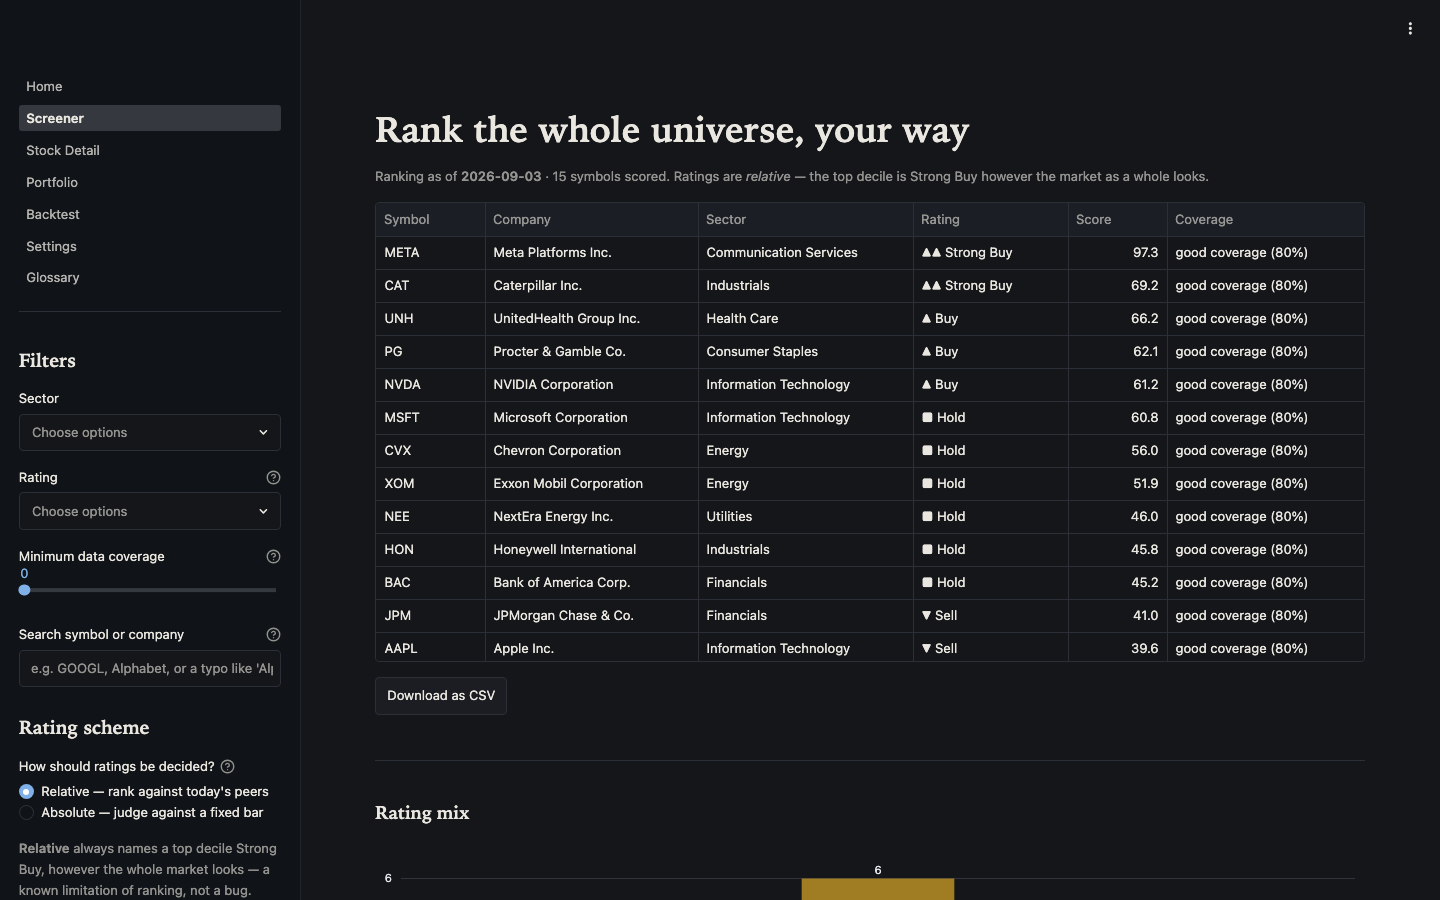
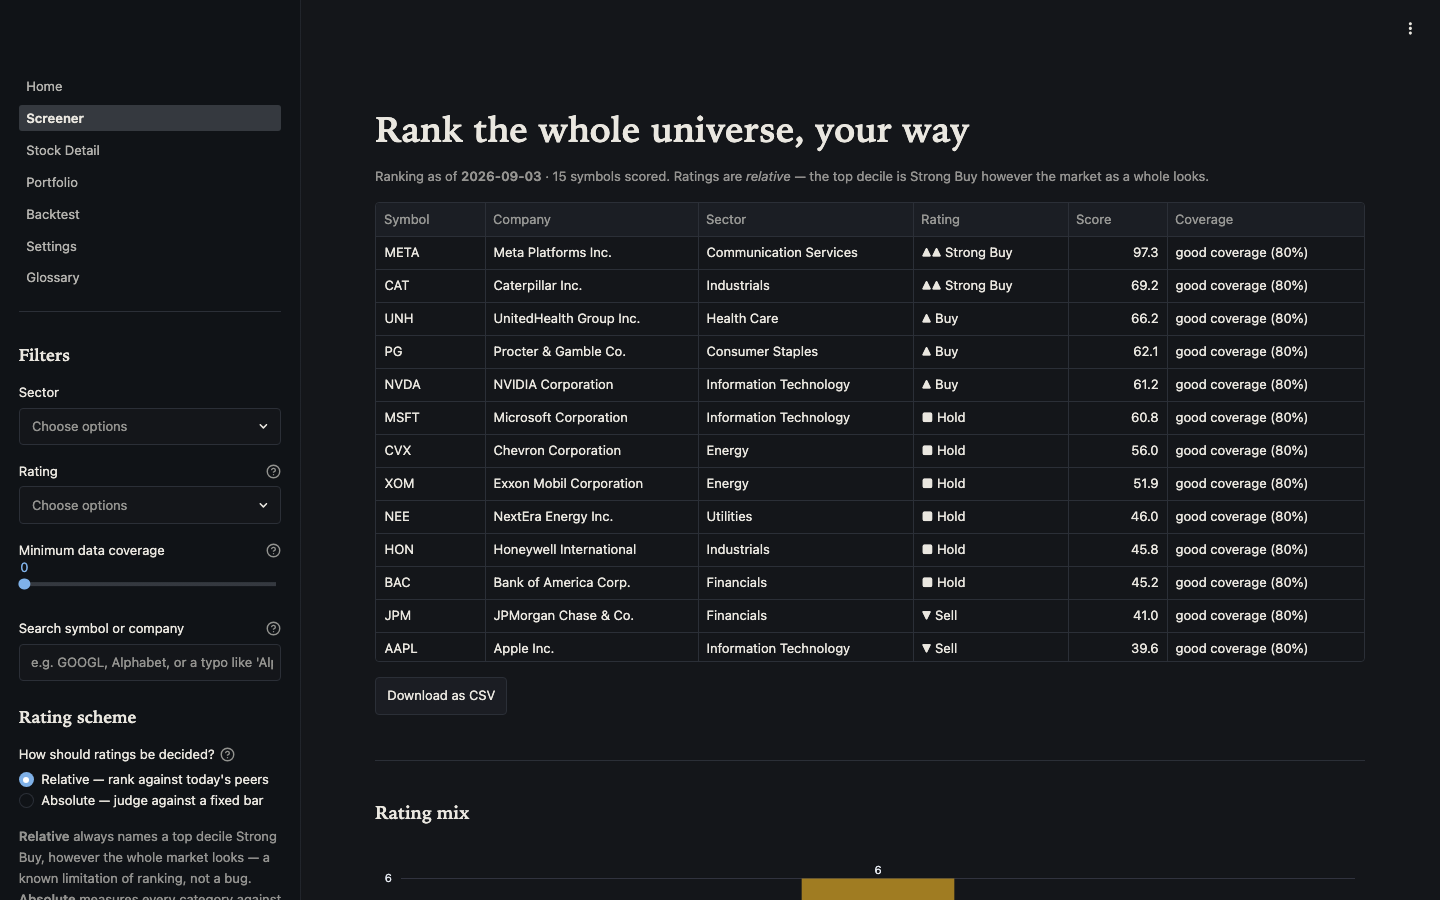
Finish the hierarchy pass on the Streamlit pages, and write the rules down
Auditing the two articles' checklists against the actual code found one item
genuinely half-done. "Make one thing visually dominant" had been applied to all
five React pages and only two of seven Streamlit ones:

    Stock Detail   0 headers, 15 subheaders
    Portfolio      0 headers,  4 subheaders
    Settings       0 headers,  5 subheaders

Fifteen sections introduced by the same heading is the exact "same rhythm, no
hierarchy" the articles describe, and on two of those pages the section a reader
actually came for -- the price chart, the holdings table -- had no heading at
all while everything downstream of it did.

Each page now has exactly one `st.header`: Price on Stock Detail, What you hold
on Portfolio, Run a refresh on Settings (the one thing that page is for; the
other four report state). Screener's three `st.header`s were in the *sidebar*,
rendering filter labels at the weight of the page's own headline -- demoted, so
the chrome sits below the content. Screener and Glossary keep no header of their
own: the ranked table and the term list are single-subject pages the h1 already
introduces.

CONTRIBUTING.md gains a Design section. The system is documented where it is
implemented, but a contributor adding a Streamlit page does not read
styles.css -- and "no gradients, one accent, never colour alone, three type
roles, one dominant section, remove a layer before adding one" is exactly the
kind of constraint list that stops the defaults creeping back.
[…]

diff --git a/app/pages/1_Screener.py b/app/pages/1_Screener.py
@@ -175,8 +175,11 @@ def main() -> None:
         "whole looks."
     )
 
+    # The sidebar is chrome, so its headings sit a level below the page's own.
+    # As `st.header` they rendered at the same weight as the headline the table
+    # belongs to, which puts the loudest type on screen next to the filters.
     with st.sidebar:
-        st.header("Filters")
+        st.subheader("Filters")
         sectors = sorted({s for s in rows["sector"].dropna().unique()})
         chosen_sectors = st.multiselect("Sector", sectors, default=[])
         chosen_ratings = st.multiselect(
@@ -205,7 +208,7 @@ def main() -> None:
             ),
         ).strip()
 
-        st.header("Rating scheme")
+        st.subheader("Rating scheme")
         absolute_mode = (
             st.radio(
                 "How should ratings be decided?",
@@ -228,7 +231,7 @@ def main() -> None:
             "existed fall back to relative."
         )
 
-        st.header("Re-weight categories")
+        st.subheader("Re-weight categories")
         st.caption(
             "Score **and rating** are recomputed instantly from stored sub-scores — "
             "no pipeline re-run, because the stored sub-scores are weight-independent "

diff --git a/app/pages/2_Stock_Detail.py b/app/pages/2_Stock_Detail.py
@@ -715,6 +715,12 @@ def main() -> None:
         if not bars.empty and len(bars) >= 30
         else None
     )
+    # `st.header`, and the only one on this page. Fifteen sections all introduced
+    # by the same `st.subheader` is a stack with no first item -- and the price
+    # history, which is what a reader opening a stock page came for, was the one
+    # section with no heading at all. It matches the React page, where Price is
+    # the single raised card and everything after it is a plain section.
+    st.header("Price")
     st.plotly_chart(charts.price_chart(bars, overlays=overlays, levels=levels), width="stretch")
     if levels is not None and not levels.empty:
         st.caption(

diff --git a/app/pages/3_Portfolio.py b/app/pages/3_Portfolio.py
@@ -226,6 +226,11 @@ def render_positions(state: holdings_lib.PortfolioState) -> pd.DataFrame:
         )
     frame = pd.DataFrame(records)
 
+    # `st.header`, and the only one on this page. What you actually hold is the
+    # subject; the risk, allocation and recommendation sections below are all
+    # readings *of* it, and giving all five the same heading weight left the
+    # page with no first item. It also had no heading at all before this.
+    st.header("What you hold")
     st.dataframe(
         frame.style.format(
             {

diff --git a/app/pages/5_Settings.py b/app/pages/5_Settings.py
@@ -110,7 +110,9 @@ def render_last_run(state: refresh.RefreshState) -> None:
 
 
 def render_manual_refresh() -> None:
-    st.subheader("Run a refresh")
+    # The one thing anyone comes to this page to *do*; the other four sections
+    # report state.
+    st.header("Run a refresh")
     if not get_settings().manual_refresh_allowed():
         st.caption(
             "Refreshing from the UI is turned off here (`MANUAL_REFRESH_ENABLED`), which is "

diff --git a/CONTRIBUTING.md b/CONTRIBUTING.md
@@ -83,6 +83,44 @@ one; this project is consistent about naming and structure on purpose.
   silent normalization bugs are the two easiest ways to quietly corrupt this
   project's actual output.
 
+## Design
+
+Both front ends share one system: the tokens live in
+`frontend/src/styles.css` and are said again in Streamlit's vocabulary in
+`.streamlit/config.toml`. Read the header comment in the first before changing
+anything visual — it explains why each decision is what it is.
+
+The short version, as constraints. These are the defaults the project has
+already been through once and does not want back:
+
+- **No gradients, glows, or glass panels.** Not in a hero, not behind a card,
+  not as decoration on a status.
+- **One accent, and it means "interactive".** Green, amber and red are the
+  rating and severity vocabulary and are never used for anything else — not for
+  a chart series, not for a nice-looking border. A moving average once came out
+  green on a candlestick chart for exactly this reason.
+- **Never colour alone.** Every rating and status carries a glyph and a word;
+  colour is the third, redundant channel. Series in a figure are separated by
+  dash pattern before hue.
+- **Three type roles, not one.** Serif for display, the UI sans for chrome,
+  monospace with `tabular-nums` for every figure. A sentence that merely
+  contains a number is not a figure.
+- **One dominant section per page.** In React that is a single `.card` with an
+  `h2.h-lede`; in Streamlit it is the page's single `st.header`, with every
+  other section an `st.subheader`. A page where every section takes the same
+  heading weight has no subject.
+- **Remove a layer before adding one.** A `.card` never contains another
+  `.card` — the stylesheet flattens it if you try.
+- **Emoji are not an icon set.** The one mark is `app/assets/mark.svg`, drawn
+  by hand and shared by both front ends.
+- **Motion only reports state.** The loading skeleton's sweep is the only
+  animation in the app, and it stops under `prefers-reduced-motion`.
+
+Copy is held to the same bar as the code. Write what the thing does, not that it
+is powerful: a sentence that would fit another product unchanged is not doing
+any work. Section numbers from `PROJECT_PLAN.md` belong in comments and
+docstrings, never in a caption — a reader has not got that document.
+
 ## Reporting a bug
 
 Open an issue with: what you expected, what happened, and — if it's a
